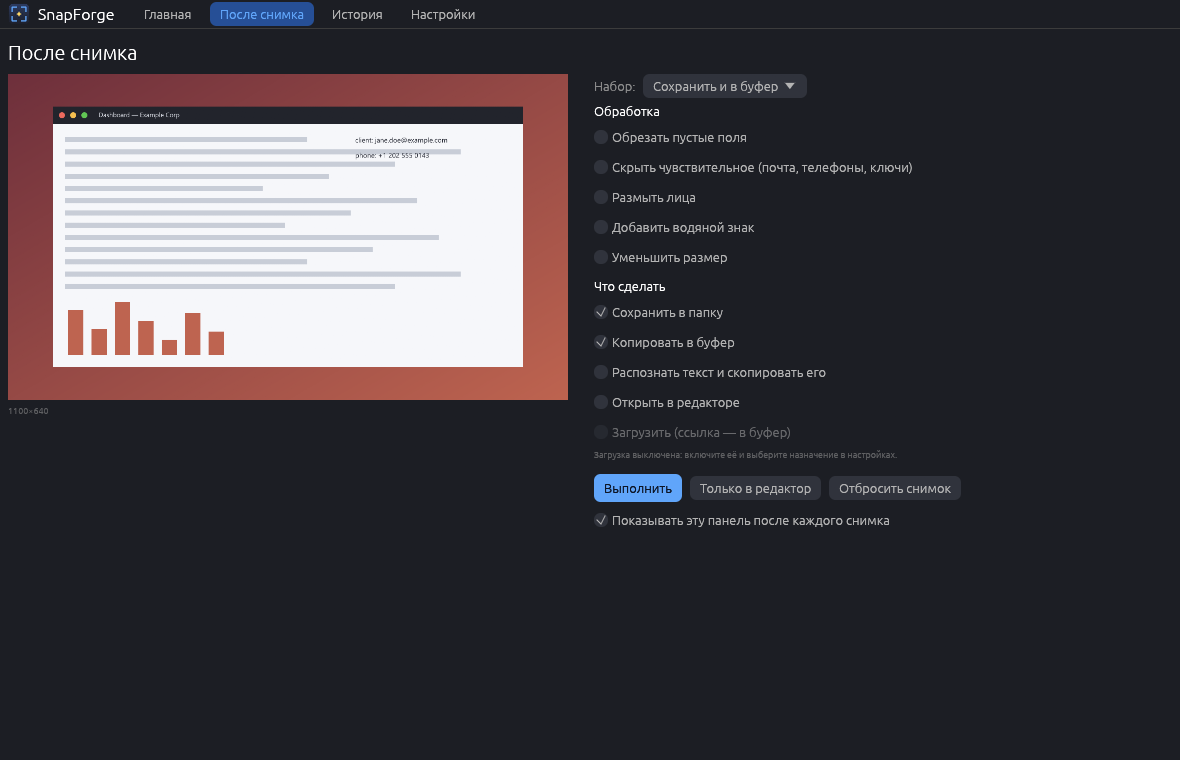
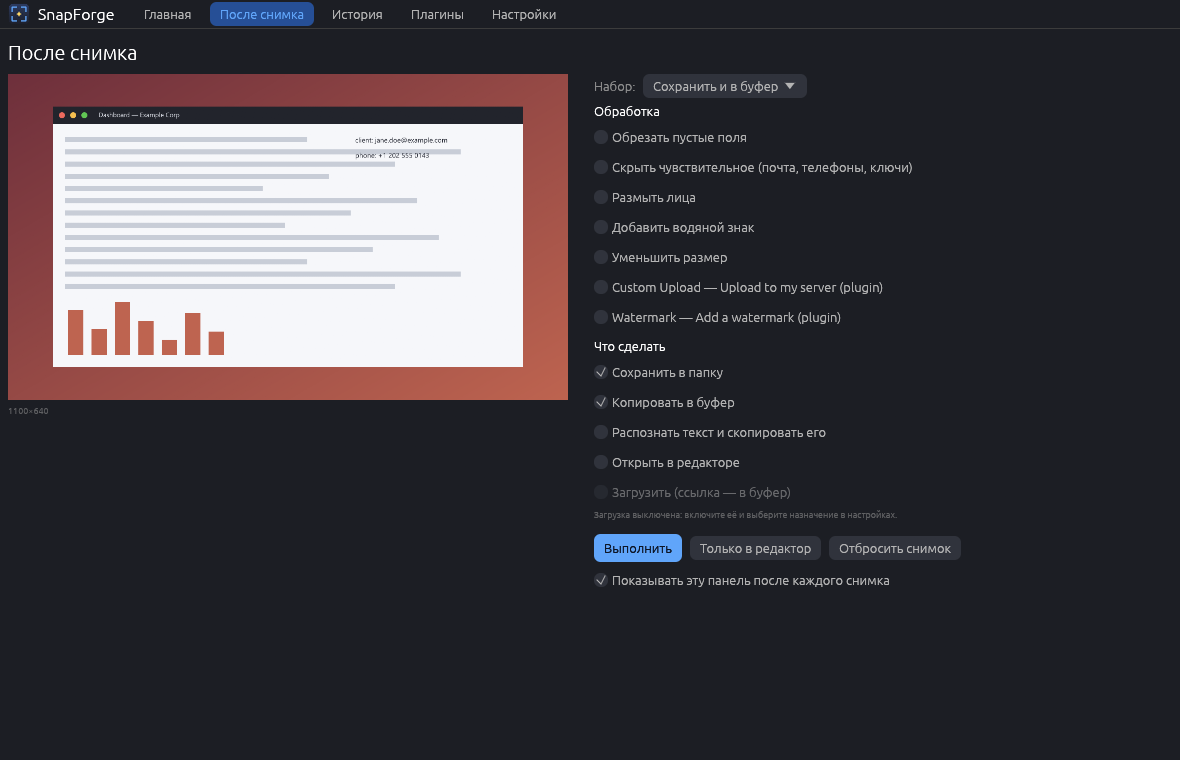
docs: PLUGINS.md, 0.3.0 README, screenshots and release notes

Changed region(s): [[0.4881, 0.3632, 0.7932, 0.7868], [0.4271, 0.0, 0.4576, 0.0303], [0.3661, 0.0, 0.3966, 0.0303]]

diff --git a/docs/PLUGINS.md b/docs/PLUGINS.md
@@ -1,0 +1,192 @@
+# SnapForge plugins
+
+A plugin is a small [Rhai](https://rhai.rs) script that reacts to captures, adds actions to the after-capture panel,
+menu items and editor tools. Plugins run in a **sandbox** and can do only what the user approved.
+
+- **No native code.** Only Rhai scripts. No DLLs, no executables, no `eval`, no `import` of files.
+- **Explicit permissions.** A plugin asks for `fs.read`, `fs.write`, `net`, `clipboard` and `ui` in `plugin.toml`.
+  The user sees the list when installing, and a plugin whose permissions change stops until they are approved again.
+- **Hard limits** on operations, time, recursion, string/array/map sizes and the memory used for pictures.
+- **No access to upload tokens.** Tokens live in the Windows Credential Manager and are not part of the plugin API.
+- **Built-in editor.** *Plugins* in the app: a code editor with highlighting, templates, a test run on a generated
+  picture with a console, enable/disable, export/import of `.sfplugin` files.
+
+## A plugin on disk
+
+A plugin is a folder (installed under `%APPDATA%\SnapForge\plugins\<id>\`) or a `.sfplugin` file (a zip of that folder):
+
+```
+plugin.toml     name, version, author, description, permissions
+main.rhai       the script (the name can be changed with `main = "…"`)
+```
+
+```toml
+name = "Watermark"
+version = "1.0.0"
+author = "you"
+description = "Adds a text mark before saving"
+main = "main.rhai"
+
+[permissions]
+clipboard = true                              # clipboard_get / clipboard_set / clipboard_set_image
+ui = true                                     # notify / show_text
+"fs.read"  = ["%USERPROFILE%\\Pictures"]      # load_image / read_text / list_dir / file_exists, only here
+"fs.write" = ["%USERPROFILE%\\Pictures\\out"] # save_image / write_text, only here
+net = ["api.example.com"]                     # http_get / http_post / http_upload, only these hosts
+```
+
+Rules for permissions:
+
+- `fs.*` entries are **absolute folders** (environment variables like `%USERPROFILE%` are expanded). A drive root, a
+  relative path or a path with `..` is rejected. Access is checked after resolving links and junctions, so a link
+  inside an allowed folder cannot lead out of it. `fs.write` folders are also readable.
+- `net` entries are host names (`api.example.com`; a scheme or path is ignored). A plugin may reach that host and its
+  sub-domains; `*`, bare TLDs and empty entries are rejected. Redirects are **not followed**, because a redirect could
+  leave the allowed hosts: the plugin gets the 3xx answer and may decide itself.
+- Nothing is granted by default. `ui` and `clipboard` do not imply each other.
+
+## How a script runs
+
+Top-level statements run once when the plugin loads. This is where you register things:
+
+```rhai
+register_action("mark", "Add a watermark (plugin)");  // checkbox in the after-capture panel
+register_menu("hello", "Say hello");                  // button on the Plugins screen
+register_tool("pick", "Pick colour");                 // tool in the editor's tool list
+```
+
+Functions with special names are called by the app:
+
+| Function | When | Arguments | Result |
+| --- | --- | --- | --- |
+| `on_capture(img)` | right after a capture, before the after-capture panel | picture | optional new picture |
+| `on_before_save(img, info)` | before the picture is written to the screenshots folder | picture, `#{app, format, width, height}` | optional new picture |
+| `on_after_save(path, info)` | after the file was written | path, `#{path}` | – |
+| `action_<id>(img)` | the action registered with `register_action("<id>", …)` is ticked | picture | optional new picture |
+| `menu_<id>()` | the menu item registered with `register_menu("<id>", …)` is clicked | – | – |
+| `tool_<id>(img, x, y)` | click on the picture with the plugin tool | base picture, pixel position | optional new picture (replaces the base picture, undoable) |
+
+A function may return a picture (`img`), or edit the picture it received in place and return nothing: both change the
+result. If a function fails, **that plugin's change is discarded** and the other plugins still run; the error shows
+up in the plugin console and as a notification.
+
+## The API
+
+Numbers may be integers or floats where a number is expected. A colour is `[r, g, b]` or `[r, g, b, a]` (0–255).
+
+**Pictures** (`img` is an `Image`; methods change it in place)
+
+| Call | What it does |
+| --- | --- |
+| `new_image(w, h, color)` | a new picture (1–16384 per side) |
+| `img.width()`, `img.height()` | size |
+| `img.get_pixel(x, y)` / `img.set_pixel(x, y, color)` | one pixel (`[r, g, b, a]`) |
+| `img.fill_rect(x, y, w, h, color)` | filled rectangle |
+| `img.draw_rect(x, y, w, h, color, line_width)` | rectangle outline |
+| `img.draw_line(x1, y1, x2, y2, color, line_width)` | line |
+| `img.draw_text(x, y, text, size, color)` | text (system font) |
+| `img.blur(x, y, w, h, radius)` | blur an area |
+| `img.pixelate(x, y, w, h, block)` | pixelate an area (good for hiding text) |
+| `img.crop(x, y, w, h)` | a new picture with that area |
+| `img.resize(w, h)` | a new picture of that size |
+| `img.overlay(other, x, y, opacity)` | draw `other` on top (opacity 0–1) |
+| `img.clone()` | a copy |
+| `img.average_color(x, y, w, h)` | mean colour of an area |
+| `img.ocr()` | recognised text (offline, Windows OCR) |
+| `measure_text(text, size)` | `[width, height]` of the text |
+| `distance(x1, y1, x2, y2)` | distance between two points |
+
+**Files** (`fs.read` / `fs.write`) — `load_image(path)`, `save_image(img, path)` (`.png` or `.jpg`),
+`read_text(path)`, `write_text(path, text)`, `list_dir(path)`, `file_exists(path)`. Files are limited to 64 MB.
+
+**Network** (`net`) — each returns `#{status, body}`:
+
+| Call | |
+| --- | --- |
+| `http_get(url)` / `http_get(url, headers)` | GET |
+| `http_post(url, body, headers)` | POST a text body |
+| `http_upload(url, field, filename, img, headers)` | POST the picture as `multipart/form-data` (PNG) |
+| `json_get(body, "data.items[0].link")` | read a value from a JSON string (`()` if absent) |
+
+`headers` is a map such as `#{ "Authorization": "Bearer …" }`. Only `http://` and `https://` URLs without
+`user:password@` are accepted, and the host must be on the plugin's `net` list.
+
+**App** — `clipboard_get()`, `clipboard_set(text)`, `clipboard_set_image(img)` (`clipboard`); `notify(text)`,
+`show_text(title, text)` (`ui`); `log(text)` and `print(text)` (always allowed, shown in the console).
+
+## Limits
+
+Defaults for one function call (the app stops the script and reports it):
+
+| Limit | Value |
+| --- | --- |
+| Operations | 20 000 000 (an endless loop ends with "too many operations") |
+| Time | 10 s |
+| Call depth / expression depth | 48 / 64 |
+| String / array / map size | 1 MB / 20 000 / 2 000 items |
+| Pixels allocated by the script (new images, crops, loads) | 512 MB in total per call |
+| Script size | 512 KB |
+
+The memory limit is about the objects the API creates; Rhai has no byte-exact heap limit, so the string, array and map
+caps and the picture budget are what bounds a script. This is a sandbox for scripts you installed on purpose, not a
+substitute for reading what you install.
+
+## Examples
+
+The repository ships three ready plugins in [`plugins/`](../plugins): **Hello** (menu item and a log), **Watermark**
+(`on_before_save` + an action, no permissions) and **Custom Upload** (an action that uploads to your own server and
+copies the link). They are also the templates of *New plugin*.
+
+Log the text of every capture (offline OCR) and hide a fixed strip, e.g. a toolbar that shows your account name:
+
+```rhai
+fn on_capture(img) {
+    let text = img.ocr();
+    log("recognised " + text.len() + " characters");
+    img.pixelate(0, 0, 220, 28, 8);
+}
+```
+
+Save a copy next to the screenshots (needs `"fs.write"` for that folder):
+
+```rhai
+fn on_after_save(path, info) {
+    let img = load_image(path);              // needs fs.read (a fs.write folder counts)
+    let small = img.resize(img.width() / 2, img.height() / 2);
+    save_image(small, "C:\\Users\\me\\Pictures\\SnapForge\\small.png");
+}
+```
+
+Read the JSON answer of your own API (`net = ["api.example.com"]`):
+
+```rhai
+fn action_share(img) {
+    let r = http_upload("https://api.example.com/v1/upload", "file", "shot.png", img, #{ "X-Key": "…" });
+    let link = json_get(r.body, "data.url");
+    if link != () { clipboard_set(link); notify("Link copied"); }
+    img
+}
+```
+
+## Installing, editing, sharing
+
+- **In the app:** *Plugins → Create from the template* makes an editable copy; *Import .sfplugin…* shows what the
+  plugin asks for and lets you install it enabled, or disabled. *Save* in the editor revokes the approval only when
+  the permissions in `plugin.toml` changed. *Run on a test picture* uses a generated picture; with *No network or
+  clipboard* ticked (the default) requests are not sent and the clipboard is not touched.
+- **Export:** *Export…* writes a `.sfplugin` (a zip of `plugin.toml`, the script and small data files — never your
+  local on/off and approval state). Archives are unpacked strictly: no absolute paths or `..`, only known file types
+  (`toml`, `rhai`, `md`, `txt`, `png`, `jpg`, `json`), at most 64 files and 8 MB.
+- **Command line:** `snapforge-cli plugin list`, `snapforge-cli plugin run <id|folder> --image in.png --hook
+  action_mark --out out.png [--dry-run] [--grant]`. A plugin *folder* runs with no permissions unless you pass
+  `--grant`, which allows exactly what its `plugin.toml` declares.
+
+## Security notes (honest version)
+
+- The sandbox is Rhai's: scripts have no ambient file, network, process or environment access; every capability is a
+  function of this API with a permission check. `eval` is disabled and there is no module loading.
+- A plugin that is approved for `net` and `fs.read` can send the files it may read to the hosts it may reach. Approve
+  only what you understand; the permission list is shown for exactly this reason.
+- Upload tokens and keys are never reachable: they are in the Credential Manager and there is no API for it. A
+  token that a plugin author writes into their own script belongs to that plugin only.
+- Timeouts cover script execution; a blocked network call is bounded by a 20 s HTTP timeout.

diff --git a/docs/release-notes/v0.3.0.md b/docs/release-notes/v0.3.0.md
@@ -1,0 +1,37 @@
+## SnapForge 0.3.0 — плагины в песочнице, встроенный редактор плагинов, CLI
+
+Плагины на Rhai с явными разрешениями — без нативных библиотек и произвольного кода.
+
+- **Плагины.** Плагин — папка или архив `.sfplugin` (zip) с `plugin.toml` (имя, версия, автор, описание, список разрешений) и скриптом на Rhai. Хуки: `on_capture`, `on_before_save`, `on_after_save`; плагин может зарегистрировать действие в панели «после снимка» (`register_action`), пункт меню (`register_menu`) и инструмент редактора (`register_tool`). Если хук падает, правки этого плагина отбрасываются, остальные плагины продолжают работать, ошибка видна в консоли и уведомлением.
+- **API.** Операции над изображением: пиксели, прямоугольники и линии, текст (`draw_text`, `measure_text`), размытие и пикселизация области, обрезка, масштаб, наложение с прозрачностью, средний цвет, `distance`, OCR (`img.ocr()`); файлы (`load_image`, `save_image`, `read_text`, `write_text`, `list_dir`); сеть (`http_get`, `http_post`, `http_upload`, `json_get`); буфер обмена; уведомления и окно с текстом; `log`/`print` в консоль плагина. Полный справочник и примеры — `docs/PLUGINS.md`; три готовых плагина (Hello, Watermark, Custom Upload) — в папке `plugins/` и в шаблонах.
+- **Разрешения.** `fs.read` и `fs.write` — только указанные абсолютные папки (проверка после раскрытия ссылок и junction, регистр не важен, `..` и корень диска отклоняются); `net` — только указанные домены и их поддомены (без `*`, редиректы не выполняются — они могли бы выйти за список); `clipboard`; `ui`. При установке показывается, что именно плагин просит, и можно установить его выключенным. Если разрешения в `plugin.toml` изменились, плагин останавливается до повторного подтверждения. Токены загрузки лежат в Диспетчере учётных данных и в API плагинов их нет.
+- **Песочница и лимиты.** Rhai без доступа к файлам, процессам и окружению; `eval` и загрузка модулей отключены. Лимиты на один вызов: 20 млн операций, 10 с, глубина вызовов 48, строка 1 МБ, массив 20 000, карта 2 000, суммарно 512 МБ пикселей, созданных скриптом. Бесконечный цикл, runaway-рекурсия и раздувание памяти прерываются (это покрыто тестами песочницы вместе с проверкой, что без `net` и `fs.write` скрипт технически не может обратиться к сети или записать файл).
+- **Встроенный редактор плагинов** (вкладка «Плагины»): список с включением/выключением, редактор кода с подсветкой Rhai и TOML, шаблоны («Hello», «Водяной знак», «Загрузка на свой сервер»), кнопка «Запустить на тестовом снимке» с консолью вывода и ошибок (по умолчанию «без сети и буфера» — запросы не отправляются), результат-миниатюра, экспорт и импорт `.sfplugin`. Архивы распаковываются строго: без абсолютных путей и `..`, только известные типы файлов, не более 64 файлов и 8 МБ.
+- **`snapforge-cli`:** `ocr <файл>` (оффлайн-OCR, `--languages`, `--words`), `plugin list`, `plugin run <id|папка> --image файл --hook имя [--out файл] [--dry-run] [--grant]`. Папка без `--grant` запускается без разрешений.
+- Автообновление теперь не обрывает скачивание на медленном канале (таймаут 30 минут вместо 2); SHA-256 проверяется как раньше.
+
+**Файлы релиза**
+
+| Файл | Что это |
+| --- | --- |
+| `SnapForge-Setup.exe` | установщик: ставится в `%LOCALAPPDATA%\Programs\SnapForge`, права администратора не нужны |
+| `SnapForge.exe` | переносная версия (тот же файл; именно его скачивает автообновление) |
+| `snapforge-cli.exe` | консольная версия: `capture`, `monitors`, `ocr`, `plugin`, `history` |
+| `SHA256SUMS.txt` | контрольные суммы |
+
+**Что важно знать**
+
+- Исполняемые файлы не подписаны: SmartScreen может показать предупреждение «неизвестный издатель». Сверяйте файл с `SHA256SUMS.txt`.
+- Права администратора не нужны. Windows 11, в Windows 10 нужна версия 1903 и новее.
+- Плагин с разрешениями `net` и `fs.read` может отправить доступные ему файлы на разрешённые ему хосты — одобряйте только то, что понимаете.
+- Приватность: по умолчанию сеть используется только для проверки обновлений; загрузка снимков, скачивание модели лиц и сетевые запросы плагинов — только после вашего включения. Телеметрии нет.
+- Размер файла вырос (около 43 МБ): внутри движок ONNX для поиска лиц и интерпретатор Rhai. Автообновление версии 0.1.0/0.2.0 скачивает файл с таймаутом 2 минуты: на очень медленном канале (меньше ≈ 3 Мбит/с) обновитесь вручную со страницы релизов — после этого обновления проблема исчезнет.
+
+**Ограничения**
+
+- Память плагина ограничена косвенно (размеры строк, массивов, карт и бюджет пикселей), а не точным лимитом кучи; время ограничено для выполнения скрипта, а блокирующий сетевой вызов — таймаутом HTTP в 20 с.
+- Сетевые API плагинов проверены на подставном транспорте и на отказах песочницы; реальные запросы к чужим серверам из плагинов не проверялись. Инструмент редактора от плагина заменяет базовую картинку (объекты поверх остаются) и проверен через ядро, но не нажатием мыши в окне.
+- Не проверялось на реальной системе: мониторы с разным масштабом (на тестовой машине все 100 %), перетаскивание изображения в сторонние программы, щелчки по окну установщика, «Перезапустить от администратора», загрузка на настоящие серверы Discord/Telegram/S3.
+- OCR требует установленного в Windows языка с распознаванием текста; поиск лиц — отдельно скачиваемая модель и может ошибаться (есть проверка перед применением).
+
+Подробности — в [README](https://github.com/ahsoggg-creator/snapforge#readme) и [docs/PLUGINS.md](https://github.com/ahsoggg-creator/snapforge/blob/master/docs/PLUGINS.md).

diff --git a/README.md b/README.md
@@ -5,21 +5,22 @@
 Безопасная замена ShareX для Windows: захват экрана, редактор с векторными аннотациями, история снимков и
 глобальные горячие клавиши. Всё хранится локально; в сеть программа ходит только за проверкой обновлений на GitHub.
 
-![Панель «после снимка»: найденные адрес и телефон перед скрытием](docs/screenshots/04-review.png)
+![Встроенный редактор плагинов: код с подсветкой, разрешения, консоль](docs/screenshots/07-plugins.png)
 
 *Все скриншоты сделаны на выдуманных данных (`SnapForge.exe --demo`) — настоящих окон, имён и людей на них нет.*
 
 ## Чем отличается от ShareX
 
-- **Безопасность.** Никаких нативных DLL-плагинов и произвольного кода. (В 0.3.0 плагины появятся как скрипты на Rhai в
-  песочнице с явными разрешениями; в 0.2.0 плагинов ещё нет.)
+- **Безопасность.** Никаких нативных DLL-плагинов и произвольного кода: плагины — скрипты на Rhai в песочнице, которые
+  могут только то, что вы им явно разрешили (файлы только в указанных папках, сеть только к указанным доменам,
+  буфер обмена, интерфейс), с лимитами на время, операции и память.
 - **Локально по умолчанию.** Загрузка выключена, пока вы сами её не включите и не настроите; телеметрии и «облака»
   нет. Единственный сетевой запрос по умолчанию — проверка обновлений раз в сутки (отключается в настройках).
 - **Объекты остаются векторными.** Стрелки, рамки, текст, метки, размытие можно двигать, менять и удалять до тех
   пор, пока вы не сохраните снимок.
 - **Без прав администратора.** Установка и работа — в профиле пользователя.
 
-## Возможности (0.2.0)
+## Возможности (0.3.0)
 
 - **Захват:** область (замороженный кадр, лупа у курсора, выделение с точностью до пикселя, стрелки двигают
   курсор на 1 пиксель, Shift — на 10), окно, весь экран, отдельный монитор. Несколько мониторов с разным
@@ -53,8 +54,22 @@
   ссылке в JSON-ответе), webhook Discord, бот Telegram, S3-совместимое хранилище (подпись AWS SigV4). Токены и ключи
   хранятся **только в Диспетчере учётных данных Windows**, а не в файлах настроек, и вырезаются из журнала и отчётов о
   сбое. Ссылка после загрузки копируется в буфер.
+- **Плагины (0.3.0).** Скрипты Rhai: хуки `on_capture`, `on_before_save`, `on_after_save`, действия в панели «после
+  снимка», пункты меню и инструменты редактора; операции над изображением (размытие, пикселизация, обрезка, текст,
+  наложение, пиксели, измерение), OCR, буфер обмена, уведомления — всё через разрешения. Плагин — папка или архив
+  `.sfplugin` с `plugin.toml` (имя, версия, автор, описание, запрашиваемые разрешения) и скриптом. Встроенный редактор:
+  список плагинов, код с подсветкой, шаблоны («Hello», «Водяной знак», «Загрузка на свой сервер»), пробный запуск на
+  тестовом снимке с консолью ошибок, включение/выключение, экспорт и импорт `.sfplugin`. При установке показывается,
+  что именно плагин просит; если разрешения изменились — плагин останавливается до нового подтверждения. Плагин не
+  может прочитать токены загрузки. Подробности и примеры — в [docs/PLUGINS.md](docs/PLUGINS.md); три готовых плагина —
+  в папке [`plugins/`](plugins).
 - **Интерфейс:** русский по умолчанию, английский переключается в настройках.
-- **`snapforge-cli`:** `capture --region X,Y,W,H | --screen | --monitor N | --window`, `monitors`, `history list|clear`.
+- **`snapforge-cli`:** `capture --region X,Y,W,H | --screen | --monitor N | --window`, `monitors`, `ocr <файл>`,
+  `plugin list`, `plugin run <плагин> --image файл --hook имя`, `history list|clear`.
+
+| Плагин с разрешениями и пробный запуск | Панель «после снимка» |
+| --- | --- |
+| ![Плагин](docs/screenshots/08-plugins-upload.png) | ![После снимка](docs/screenshots/04-review.png) |
 
 | Панель «после снимка» | Графики в редакторе |
 | --- | --- |
@@ -64,7 +79,7 @@
 | --- | --- |
 | ![Главная](docs/screenshots/01-home.png) | ![История](docs/screenshots/02-history.png) |
 
-![Настройки: загрузка и после снимка](docs/screenshots/09-settings-uploads.png)
+![Настройки: загрузка и после снимка](docs/screenshots/11-settings-uploads.png)
 
 ## Установка
 
@@ -123,8 +138,9 @@ cargo clippy --workspace --all-targets -- -D warnings
 crates/core   вся логика без интерфейса: захват, геометрия мониторов, редактор, история, настройки, горячие клавиши
 crates/app    GUI на egui + установщик, автообновление, трей, диагностика, демо-режим
 crates/cli    snapforge-cli
+plugins/      три готовых плагина (Hello, Watermark, Custom Upload)
 scripts/      сборка и релиз, самоподписанный сертификат, иконка
-docs/         скриншоты, заметки релизов
+docs/         PLUGINS.md, скриншоты, заметки релизов
 ```
 
 ## Лицензия

diff --git a/README.en.md b/README.en.md
@@ -5,21 +5,22 @@
 A safer ShareX alternative for Windows: screen capture, an editor with vector annotations, a screenshot history and
 global hotkeys. Everything stays on your computer; the only thing the app contacts is GitHub, to check for updates.
 
-![The after-capture panel: an address and a phone number found before hiding](docs/screenshots/04-review.png)
+![The built-in plugin editor: highlighted code, permissions, console](docs/screenshots/07-plugins.png)
 
 *All screenshots were made on invented data (`SnapForge.exe --demo`) — no real windows, names or people are shown.*
 
 ## How it differs from ShareX
 
-- **Safety.** No native DLL plugins and no arbitrary code. (Version 0.3.0 will add plugins as Rhai scripts in a
-  sandbox with explicit permissions; 0.2.0 has no plugins yet.)
+- **Safety.** No native DLL plugins and no arbitrary code: plugins are Rhai scripts in a sandbox that can do only
+  what you explicitly allowed (files only in the folders you name, network only to the domains you name, the clipboard,
+  the UI), with limits on time, operations and memory.
 - **Local by default.** Uploads are off until you switch them on and configure them; no telemetry, no cloud. The only
   network request by default is the update check, once a day (it can be turned off).
 - **Objects stay vector.** Arrows, frames, text, markers and blur can be moved, changed and deleted until you save
   the screenshot.
 - **No administrator rights.** Installation and normal use are per-user.
 
-## Features (0.2.0)
+## Features (0.3.0)
 
 - **Capture:** region (frozen frame, magnifier next to the cursor, pixel-exact selection, arrow keys nudge the
   cursor by 1 px, Shift: 10), window, full screen, a single monitor. Multiple monitors with different scaling: all
@@ -52,9 +53,21 @@ global hotkeys. Everything stays on your computer; the only thing the app contac
   the response), a Discord webhook, a Telegram bot, S3-compatible storage (AWS SigV4 signing). Tokens and keys are
   stored **only in the Windows Credential Manager**, never in the settings files, and are stripped from the log and
   crash reports. The link is copied to the clipboard after an upload.
+- **Plugins (0.3.0).** Rhai scripts: the hooks `on_capture`, `on_before_save`, `on_after_save`, actions in the
+  after-capture panel, menu items and editor tools; picture operations (blur, pixelate, crop, text, overlay, pixels,
+  measuring), OCR, the clipboard, notifications — all through permissions. A plugin is a folder or a `.sfplugin` archive
+  with `plugin.toml` (name, version, author, description, requested permissions) and a script. The built-in editor has
+  a plugin list, highlighted code, templates ("Hello", "Watermark", "Upload to my own server"), a test run on a sample
+  picture with an error/output console, enable/disable and export/import of `.sfplugin`. Installing shows exactly what
+  the plugin asks for; if its permissions change, it stops until you approve them again. A plugin cannot read upload
+  tokens. Details and examples: [docs/PLUGINS.md](docs/PLUGINS.md); three ready plugins live in [`plugins/`](plugins).
 - **UI language:** Russian by default, English in the settings.
-- **`snapforge-cli`:** `capture --region X,Y,W,H | --screen | --monitor N | --window`, `monitors`,
-  `history list|clear`.
+- **`snapforge-cli`:** `capture --region X,Y,W,H | --screen | --monitor N | --window`, `monitors`, `ocr <file>`,
+  `plugin list`, `plugin run <plugin> --image file --hook name`, `history list|clear`.
+
+| A plugin with permissions and a test run | The after-capture review |
+| --- | --- |
+| ![Plugin](docs/screenshots/08-plugins-upload.png) | ![Review](docs/screenshots/04-review.png) |
 
 | After capture | Charts in the editor |
 | --- | --- |
@@ -64,7 +77,7 @@ global hotkeys. Everything stays on your computer; the only thing the app contac
 | --- | --- |
 | ![Home](docs/screenshots/01-home.png) | ![History](docs/screenshots/02-history.png) |
 
-![Settings: uploads and after capture](docs/screenshots/09-settings-uploads.png)
+![Settings: uploads and after capture](docs/screenshots/11-settings-uploads.png)
 
 ## Installation
 
@@ -122,8 +135,9 @@ Needs Rust stable (edition 2024) and Windows with MSVC. The full set of release 
 crates/core   all logic without UI: capture, monitor geometry, editor, history, settings, hotkeys
 crates/app    egui GUI + installer, auto-update, tray, diagnostics, demo mode
 crates/cli    snapforge-cli
+plugins/      three ready plugins (Hello, Watermark, Custom Upload)
 scripts/      build and release, self-signed certificate, icon
-docs/         screenshots, release notes
+docs/         PLUGINS.md, screenshots, release notes
 ```
 
 ## License
